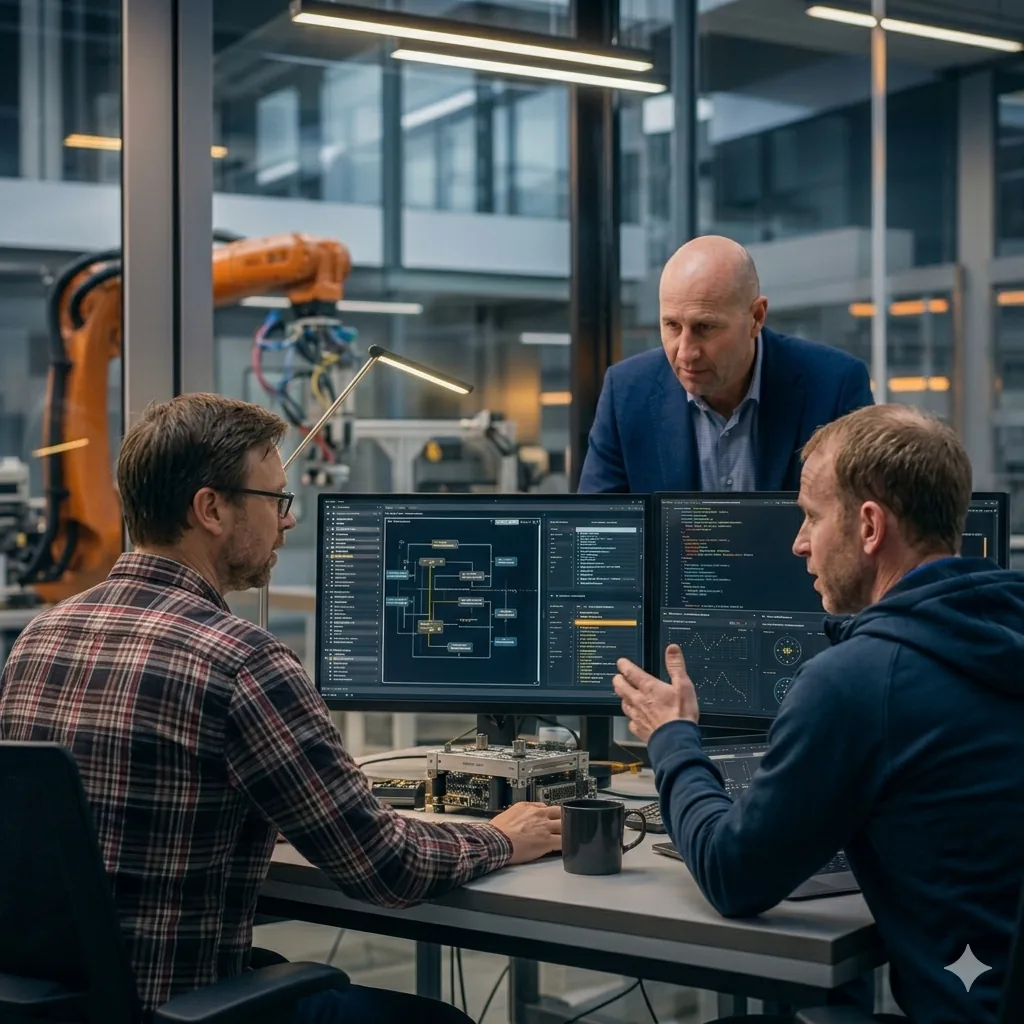
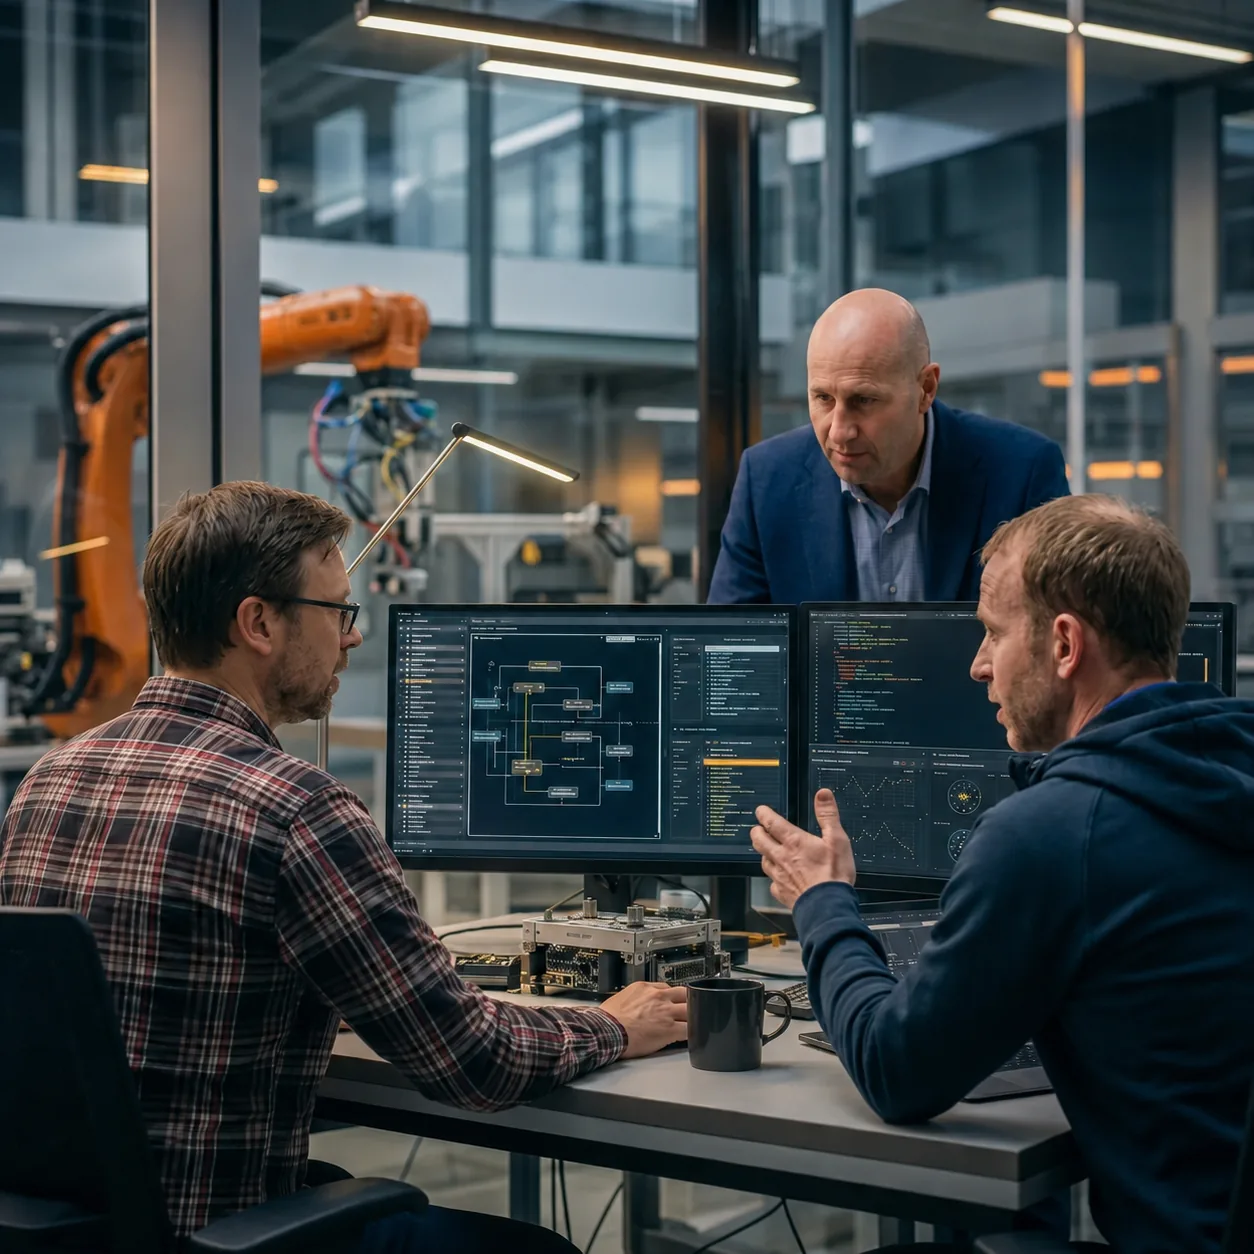
Add files via upload

diff --git a/index.html b/index.html
@@ -360,7 +360,7 @@
         <div class="section-intro">
           <p class="eyebrow">Erfaring</p>
           <h2>Erfaring fra komplekse miljøer</h2>
-          <p>Vi omtaler vanligvis ikke kundene våre offentlig, men her er noen typiske oppdrag konsulentene våre har gått inn i.</p>
+          <p>Vi omtaler vanligvis ikke kundene våre offentlig, men her er noen typiske oppdrag vi har gått inn i:</p>
         </div>
 
         <div class="experience-group">